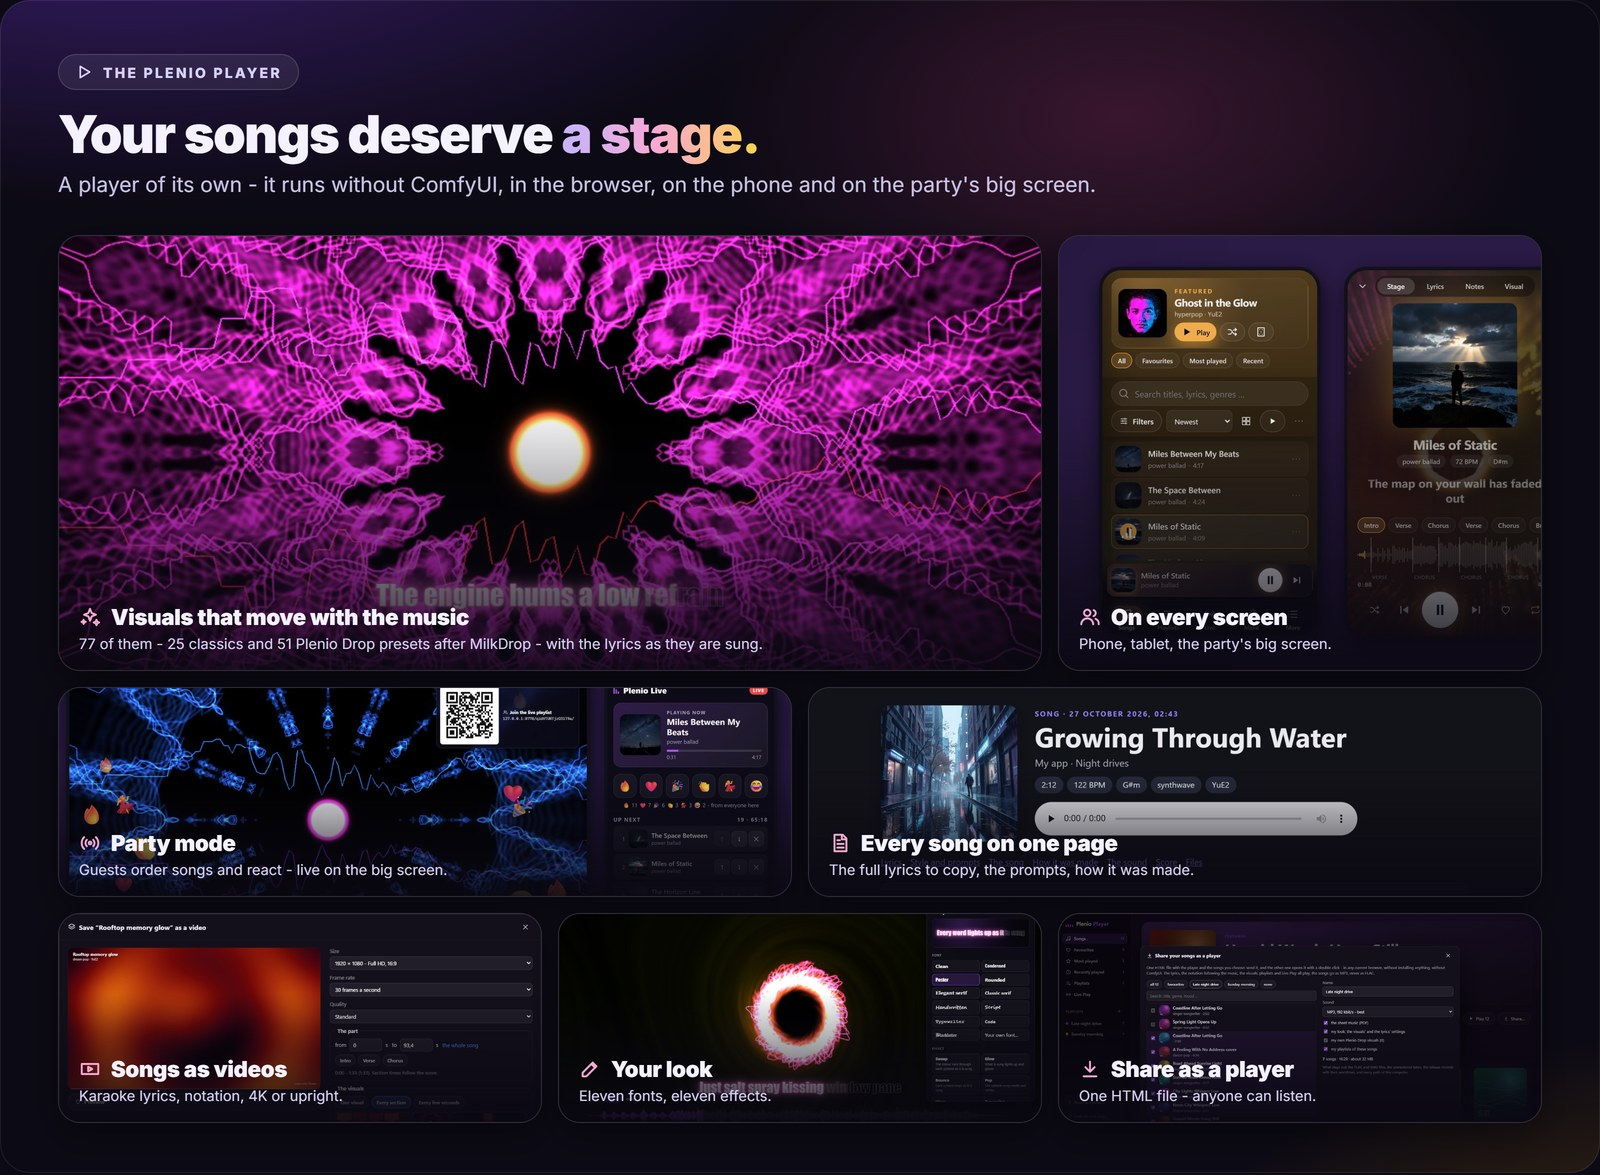
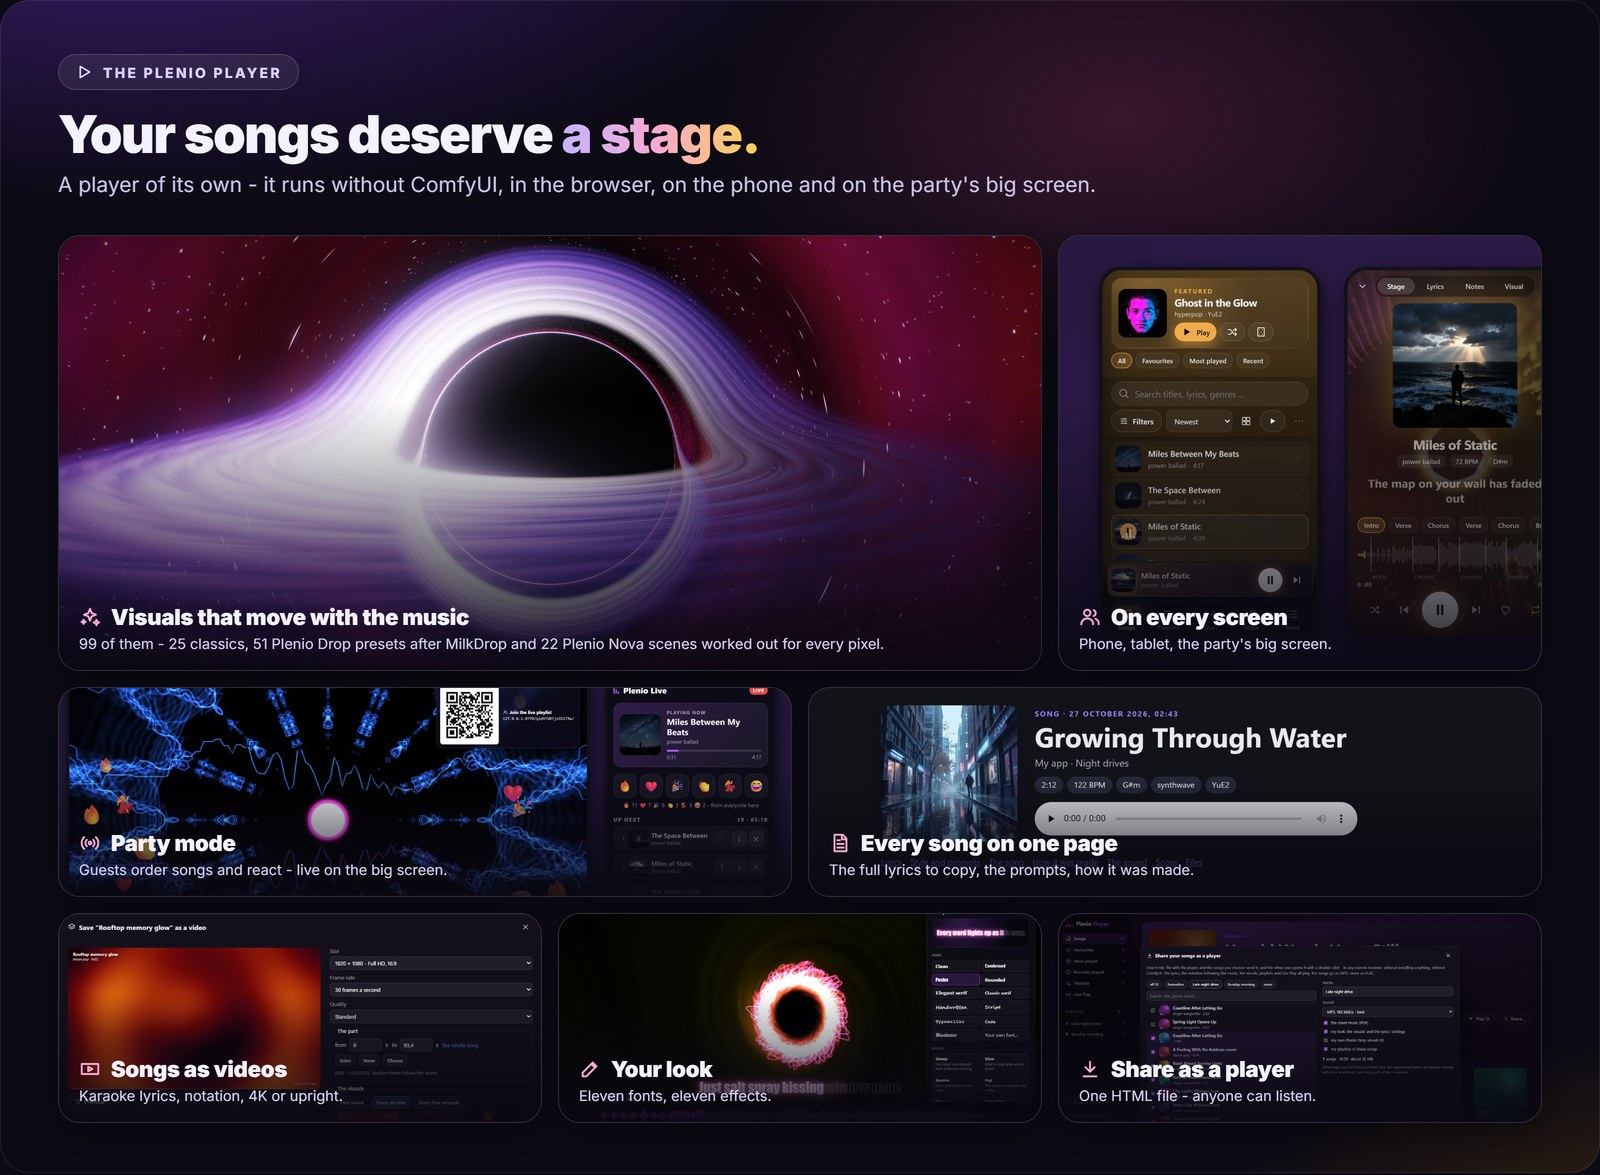
Release 1.4.0: the news of Nova, stars, groups and video quality in the CHANGELOG and the README
The 1.4.0 summary covers every new feature; the README's player shows 99
visuals and a Nova picture, and New in 1.4 has the visuals, the stars, who
may do what and the video qualities, with two new pictures.

Changed region(s): [[0.0312, 0.1838, 0.6562, 0.5821]]

diff --git a/README.md b/README.md
@@ -103,7 +103,7 @@ Six ready-made templates in ComfyUI's template browser, each one clear path from
 ## ▶ The Plenio Player
 
 <p align="center">
-  <img src="assets/branding/readme/bento-player.jpg" alt="The Plenio Player - your songs deserve a stage: visuals that move with the music (77, with Plenio Drop presets after MilkDrop and the lyrics as they are sung), on every screen (phone, tablet, the party's big screen), party mode (guests order songs and react, live on the big screen), every song on one page (the full lyrics to copy, the prompts, how it was made), songs as videos (karaoke lyrics, notation, 4K or upright), your look (eleven fonts, eleven effects) and share as a player (one HTML file)" width="100%" />
+  <img src="assets/branding/readme/bento-player.jpg" alt="The Plenio Player - your songs deserve a stage: visuals that move with the music (99, with Plenio Drop presets after MilkDrop and Plenio Nova scenes worked out for every pixel - here a black hole), on every screen (phone, tablet, the party's big screen), party mode (guests order songs and react, live on the big screen), every song on one page (the full lyrics to copy, the prompts, how it was made), songs as videos (karaoke lyrics, notation, 4K or upright), your look (eleven fonts, eleven effects) and share as a player (one HTML file)" width="100%" />
 </p>
 
 A program of its own: it runs without ComfyUI, opens at `http://127.0.0.1:8765/`, and finds every song Export Release wrote. **Plenio Player** beside *Run* in ComfyUI opens it; or double-click `Plenio Player.bat` (`./plenio_player.sh` on macOS and Linux).
@@ -111,16 +111,16 @@ A program of its own: it runs without ComfyUI, opens at `http://127.0.0.1:8765/`
 <table>
 <tr>
 <td width="56%"><img src="assets/branding/readme/party-reactions.webp" alt="Live Play on the party's big screen: a Plenio Drop visual with the lyrics and the guests' QR code; beside it a guest's phone - taps on fire, hearts and party poppers float up the big screen" width="100%" /></td>
-<td width="44%"><b>Party mode.</b> Everyone on the party's Wi-Fi scans a QR code: the live playlist on their phones, songs to add - and with <b>party songs</b> they order a song of their own: a style, a few words, <i>Generate</i>. It plays when it is ready, with who made it and at which party on the big screen. Their reactions 🔥 ❤ 🎉 float up the screen and are kept for every song. <a href="docs/user/concepts/player.md#guests-in-your-network">Party guide</a></td>
+<td width="44%"><b>Party mode.</b> Everyone on the party's Wi-Fi scans a QR code: the live playlist on their phones, songs to add - and with <b>party songs</b> they order a song of their own: a style, a few words, <i>Generate</i>. It plays when it is ready, with who made it and at which party on the big screen. Their reactions 🔥 ❤ 🎉 float up the screen and are kept for every song, and the songs made at the party play again on their phones. <a href="docs/user/concepts/player.md#guests-in-your-network">Party guide</a></td>
 </tr>
 </table>
 
 - **The lyrics as they are sung** - lit up syllable by syllable, as written or as the take really sings them, and as **full lyrics to copy** with their sections. The sheet music follows the music, note by note.
-- **77 visuals** - 25 classics and 51 **Plenio Drop** presets after Winamp's MilkDrop, drawn on the graphics card and moving with the music, plus one made up fresh each time. Write your own as a small JSON file of formulas ([guide](docs/user/concepts/player-visuals.md)).
+- **99 visuals** - 25 classics, 51 **Plenio Drop** presets after Winamp's MilkDrop and 22 **Plenio Nova** scenes the graphics card works out for every pixel (a black hole, a galaxy, northern lights, the Mandelbulb, liquid chrome), all moving with the music, plus one made up fresh each time - and only the ones a device draws smoothly are offered. Write your own as a small JSON file of formulas ([guide](docs/user/concepts/player-visuals.md)).
 - **Find anything** - search titles, lyrics and briefs, or `genre:jazz bpm:>110 key:Am`; filters, saved filters, tags of your own, smart lists, playlists, crossfades and a sleep timer - quick with thousands of songs.
-- **A page per song** - its lyrics, notation, sheet music, every field of the brief, how it was made (when, how long, on which graphics card, with which lyrics fidelity), its files and its other takes.
-- **Make songs from the player** - presets for the whole form, up to four takes at once; the player starts ComfyUI in the background, the way you last started it.
-- **Songs as videos** - an MP4 of the visual with karaoke lyrics and the notation, Full HD, 4K, square or upright for Shorts, made on your graphics card faster than the song lasts.
+- **A page per song** - its lyrics, notation, sheet music, every field of the brief, how it was made (when, how long, on which graphics card, with which lyrics fidelity), your stars and the measured ones, its files and its other takes.
+- **Make songs from the player** - presets for the whole form, up to four takes at once, users who listen, make songs or help as admins, and new songs released after their maker heard them or an admin approved them; the player starts ComfyUI in the background, the way you last started it.
+- **Songs as videos** - an MP4 of the visual with karaoke lyrics and the notation, Full HD, 4K, square or upright for Shorts, from *Low* to *Best* or a bitrate of your own, made on your graphics card faster than the song lasts.
 - **Share as a player** - one HTML file with the songs you choose: anyone double-clicks it and listens, with the lyrics and the visuals. No install, no server, no account.
 - **On every screen** - phone, tablet and the big screen, with *Add to Home screen*; *In your network* opens the whole player on another device at home.
 
@@ -133,8 +133,16 @@ Guide: [Plenio Player](docs/user/concepts/player.md).
 <td width="50%"><img src="assets/branding/1.4.0/player-full-lyrics.jpg" alt="A song's page in the Plenio Player with Full lyrics chosen: the lyrics with their sections and the buttons Copy the lyrics, Without the section tags, Copy the style and The song's page" width="100%" /></td>
 <td width="50%"><img src="assets/branding/1.4.0/player-how-made.jpg" alt="A song's page with the guests' reactions under its title and How it was made: the date and time, Making took 4 min 19 s, the graphics card and the processor" width="100%" /></td>
 </tr>
+<tr>
+<td width="50%"><img src="assets/branding/1.4.0/player-nova.jpg" alt="Plenio Nova's black hole: a glowing accretion disk bent round the dark shadow, its light lensed over and under it, in a field of stars - worked out by the graphics card for every pixel and moving with the music" width="100%" /></td>
+<td width="50%"><img src="assets/branding/1.4.0/player-stars.jpg" alt="A song's page with 4.5 stars given by ear and 3.5 measured, faded, beside them; Details shows How it came out, measured - harmony, clashes, key, beat, ending, holes, length, clipping - each with a bar" width="100%" /></td>
+</tr>
 </table>
 
+- **Plenio Nova: 22 visuals worked out for every pixel** - a black hole, a galaxy, northern lights, the Mandelbulb, liquid chrome, an outrun valley - in a compact choice with a search and moods; only the visuals a device draws smoothly are offered.
+- **Stars for every song** - yours by ear, 0 to 5, and the measured ones as a faded pre-fill: the lyrics sung as written, the harmony, the beat, what went wrong.
+- **Who may do what** - users listen, make songs or help as admins; a new song can wait until its maker heard it or an admin approved it; the guests hear the party's songs again on their phones.
+- **Videos in more qualities** - seven steps from *Low* to *Best* or a bitrate of your own, 24 to 60 frames a second, AAC up to 320 kbit/s.
 - **The full lyrics to copy** on a song's page, and **a page per song** (`<name>.html`) beside every export - the lyrics with their sections, the prompts, every setting and the files, in any browser.
 - **LoRAs for YuE2** - up to four, on the plan or the sound, in ComfyUI's and m-a-p's layout.
 - **ComfyUI started the way you start it** - the player reuses your models folder and options; a missing model file is named, with what to do.

diff --git a/CHANGELOG.md b/CHANGELOG.md
@@ -4,7 +4,7 @@ All notable changes of the current version and the one before. Versions follow s
 
 ## 1.4.0 - 2026-10-29
 
-**The player starts ComfyUI as you do, and remembers what the party felt.** The Plenio Player starts ComfyUI the way you last started it - with your models folder and options - and names a model file ComfyUI does not find. A song's page says when, how long and on what it was made, and with which lyrics fidelity. The guests' reactions are kept for every song, as many as they like or one each; only the guests' songs are party songs, and the big screen says which party. Videos give their graphics memory back and try again; links, headings and texts are clearer on every screen. The lyrics are there in full to copy again - on the song's page in the player and on a page of their own beside every song - and YuE2 takes LoRAs.
+**Visuals worked out for every pixel, stars for every song, and a say in what the party hears.** Plenio Nova brings 22 visuals the graphics card works out for every pixel - a black hole, a galaxy, northern lights over a lake, the Mandelbulb, liquid chrome -, in a choice that stays compact with a hundred visuals, and the player offers only the visuals a device draws smoothly. Every song gets stars from 0 to 5: yours by ear, and the measured ones as a faded pre-fill - how much of the lyrics is sung as written, how clean the harmony is, how steady the beat, and what went wrong. Users listen, make songs or help as admins; a new song can wait until its maker heard it or an admin approved it, and the guests hear the party's songs again on their phones. Videos come in seven quality steps or at a bitrate of your own. The player starts ComfyUI the way you last started it and names a model file ComfyUI does not find; a song's page says when, how long and on what it was made. The guests' reactions are kept for every song; only the guests' songs are party songs, and the big screen says which party. Videos give their graphics memory back and try again. The lyrics are there in full to copy again - on the song's page in the player and on a page of their own beside every song - and YuE2 takes LoRAs.
 
 ### Added
 
